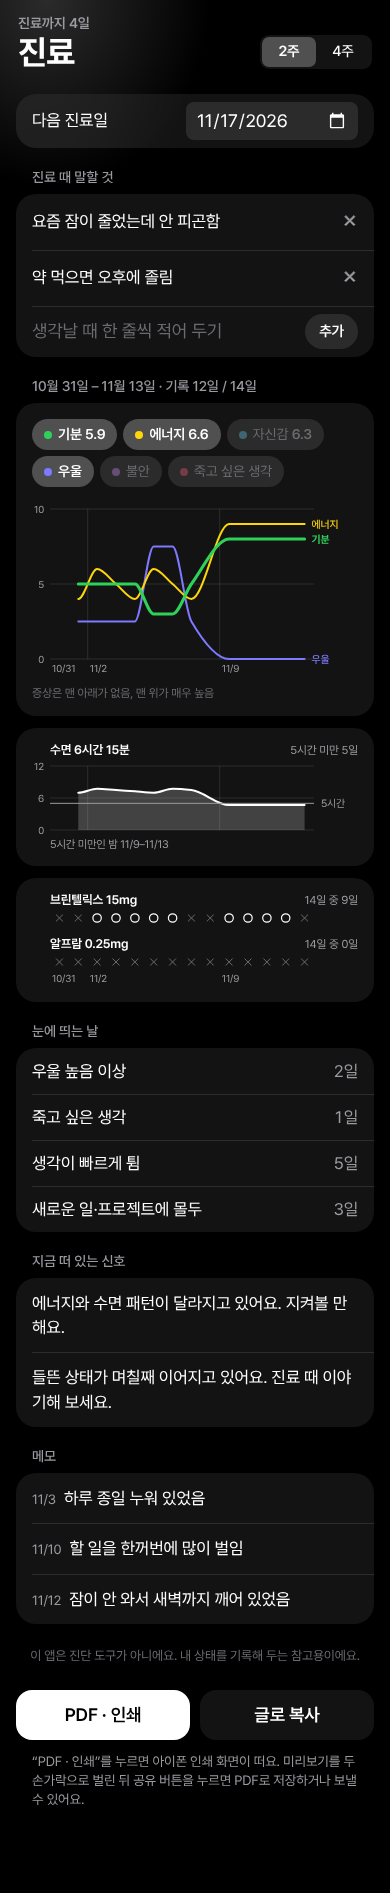
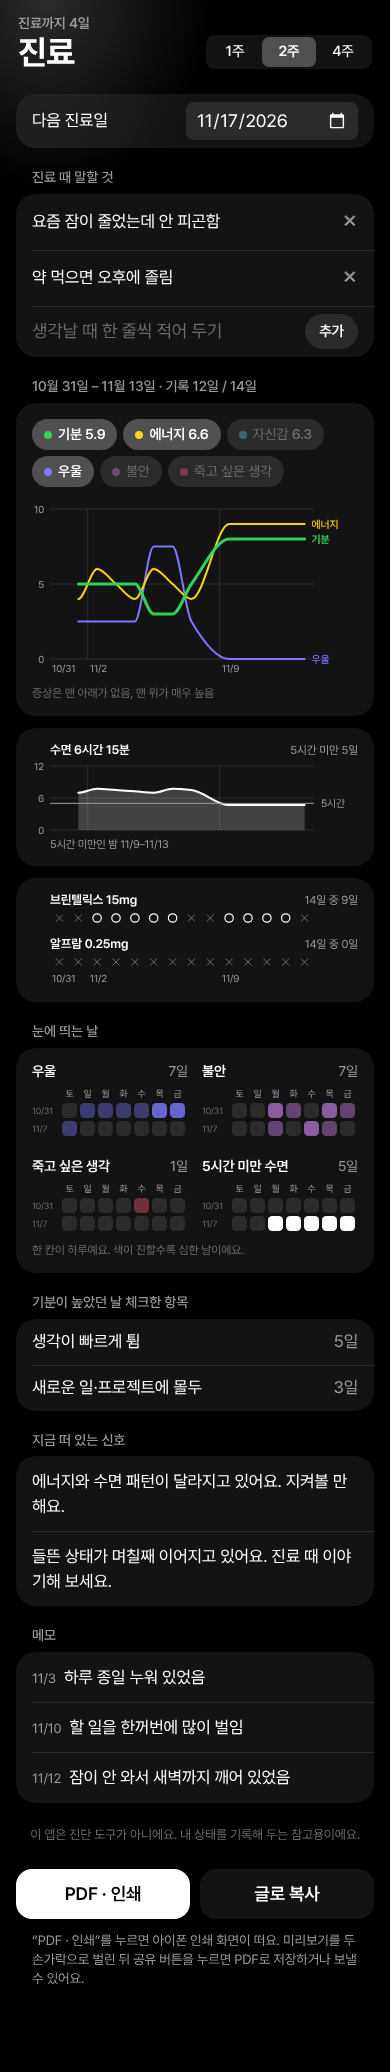
Tide: 1-week clinic summary and weekday squares for days that stand out
The clinic summary can cover 1, 2 or 4 weeks. Days that stand out are drawn as a row of weekday squares per item (depressed, anxious, thoughts of dying, under 5 hours of sleep): one square per day, coloured when it applies and darker when stronger; more weeks add rows. Drawn in SVG so it prints.

Claude-Session: https://claude.ai/code/session_01Du4KAy7crrN67i73oW7iBF

Changed region(s): [[0.0308, 0.0, 0.9231, 0.9662], [0.8308, 0.0, 0.8923, 0.0935], [0.8, 0.2493, 0.8615, 0.2805]]

diff --git a/mood/js/views/clinic.js b/mood/js/views/clinic.js
@@ -1,7 +1,7 @@
 // 진료 화면: 다음 진료일, 진료 때 말할 것, 진료용 요약 (최근 2주/4주를 한 장으로)
 import { SHORT_SLEEP, summary } from '../analysis.js';
 import { DISCLAIMER, LEVELS } from '../constants.js';
-import { durText, md, parse, today } from '../dates.js';
+import { WD, durText, md, parse, today } from '../dates.js';
 import { app, esc } from '../dom.js';
 import { F, T } from '../i18n.js';
 import { medKey, medsFor } from '../meds.js';
@@ -161,6 +161,27 @@ function summaryRows(s) {
   };
 }
 
+// 눈에 띄는 날: 항목마다 요일 칸을 놓고 그런 날을 색칠한다 (7일이 한 줄, 여러 주면 줄이 늘어난다).
+// 증상은 단계가 높을수록 진하게, "5시간 미만 수면"은 해당하는 밤만 칠한다. 인쇄에도 나오도록 SVG로 그린다.
+function dayGrids(s, width) {
+  const w = Math.floor((width - 14) / 2), rows = s.dates.length / 7, lab = rows > 1 ? 30 : 0, cell = (w - lab) / 7, sz = cell - 3, wd = WD();
+  const items = [
+    ...[['dep', T('우울')], ['anx', T('불안')], ['si', T('죽고 싶은 생각')]].filter(([k]) => itemOn(k)).map(([k, name]) => [name, `var(--l-${k})`, (e) => (e && e[k]) || 0]),
+    ...(itemOn('sleep') ? [[T('5시간 미만 수면'), 'var(--ink)', (e) => (e && e.sleepMin != null && e.sleepMin < SHORT_SLEEP ? 4 : 0)]] : []),
+  ];
+  return items.map(([name, color, level]) => {
+    const vals = s.days.map(level), count = vals.filter(Boolean).length;
+    let out = '';
+    for (let c = 0; c < 7; c++) out += `<text x="${(lab + cell * c + sz / 2).toFixed(1)}" y="9" text-anchor="middle" font-size="9.5" style="fill:var(--muted)">${wd[parse(s.dates[c]).getDay()]}</text>`;
+    vals.forEach((v, i) => {
+      const x = lab + cell * (i % 7), y = 15 + cell * Math.floor(i / 7);
+      if (lab && i % 7 === 0) out += `<text x="0" y="${(y + sz / 2 + 3.5).toFixed(1)}" font-size="9" style="fill:var(--faint)">${shortDate(s.dates[i])}</text>`;
+      out += `<rect x="${x.toFixed(1)}" y="${y.toFixed(1)}" width="${sz.toFixed(1)}" height="${sz.toFixed(1)}" rx="${(sz * 0.28).toFixed(1)}" ${v ? `style="fill:${color}" fill-opacity="${[0, 0.4, 0.6, 0.8, 1][v]}"` : 'class="c0"'}/>`;
+    });
+    return `<div class="sum-grid"><div class="sg-h"><span>${name}</span><span>${count ? F('{0}일', count) : T('없음')}</span></div><svg width="${w}" height="${(15 + cell * rows).toFixed(1)}" role="img">${out}</svg></div>`;
+  }).join('');
+}
+
 // 요약 본문: 그림 세 장과 눈에 띄는 날·신호·메모를 카드로 나눠 놓는다 (인쇄하면 이 부분이 한 장으로 나간다)
 function summaryHtml(weeks) {
   const s = summary(weeks);
@@ -168,10 +189,8 @@ function summaryHtml(weeks) {
   const fig = figures(s, width);
   // 큰 그래프의 선을 켜고 끄는 단추: 기분·에너지·자신감은 평균을 옆에 적는다
   const toggles = lineDefs().map(([key, name, max]) => `<button class="sum-tog" data-act="clinicLine" data-k="${key}" aria-pressed="${clinicView.lines.includes(key)}"><i style="background:${lineColor(key)}"></i>${name}${max === 10 && s[key] ? ` <b>${one(s[key].avg)}</b>` : ''}</button>`).join('');
-  const flags = [
-    ['dep', T('우울 높음 이상')], ['anx', T('불안 높음 이상')], ['si', T('죽고 싶은 생각')],
-  ].filter(([key]) => itemOn(key)).map(([key, name]) => [name, s.high[key].length]).concat(s.signs)
-    .filter(([, c]) => c).map(([name, c]) => li(esc(name), F('{0}일', c))).join('');
+  const grids = dayGrids(s, width);
+  const signs = s.signs.map(([name, c]) => li(esc(name), F('{0}일', c)));
   const says = (title, rows) => (rows.length ? `<div class="sec">${title}</div><section class="card list">${rows.join('')}</section>` : '');
   return `
     <div class="sec">${md(parse(s.dates[0]))} – ${md(parse(s.dates[s.dates.length - 1]))} · ${F('기록 {0}일 / {1}일', s.got.length, s.dates.length)}</div>
@@ -182,7 +201,9 @@ function summaryHtml(weeks) {
     </section>` : ''}
     ${itemOn('sleep') ? `<section class="card">${fig.sleep}</section>` : ''}
     ${fig.marks ? `<section class="card">${fig.marks}</section>` : ''}
-    ${flags ? `<div class="sec">${T('눈에 띄는 날')}</div><section class="card list">${flags}</section>` : ''}
+    ${grids ? `<div class="sec">${T('눈에 띄는 날')}</div><section class="card" id="sum-days"><div class="sum-grids">${grids}</div>
+      <p class="sum-key">${T('한 칸이 하루예요. 색이 진할수록 심한 날이에요.')}</p></section>` : ''}
+    ${says(T('기분이 높았던 날 체크한 항목'), signs)}
     ${says(T('지금 떠 있는 신호'), s.signals.map((x) => `<div class="li say">${esc(x)}</div>`))}
     ${says(T('메모'), s.notes.map(([d, note]) => `<div class="li say note"><small>${shortDate(d)}</small> ${esc(note)}</div>`))}
     <p class="foot">${DISCLAIMER}</p>`;
@@ -207,7 +228,8 @@ export function viewClinic() {
   const c = clinicData(), weeks = clinicView.weeks;
   app.innerHTML = `
     <header class="top"><div><div class="over">${nextText() || T('의사에게 보여 줄 것들')}</div><h1>${T('진료')}</h1></div>
-      <div class="segc"><button data-act="clinicWeeks" data-w="2" aria-pressed="${weeks === 2}">${T('2주')}</button>
+      <div class="segc"><button data-act="clinicWeeks" data-w="1" aria-pressed="${weeks === 1}">${T('1주')}</button>
+        <button data-act="clinicWeeks" data-w="2" aria-pressed="${weeks === 2}">${T('2주')}</button>
         <button data-act="clinicWeeks" data-w="4" aria-pressed="${weeks === 4}">${T('4주')}</button></div></header>
 
     <section class="card list">

diff --git a/mood/tests/smoke.js b/mood/tests/smoke.js
@@ -198,8 +198,8 @@ function seed() {
 
   // 5-2. 진료 탭: 다음 진료일, 말할 것, 요약
   await page.click('[data-tab=clinic]');
-  check('진료용 요약에 그림과 눈에 띄는 날, 약이 나옴', (await page.$$('#sum-meds circle')).length > 3 && (await page.$$('#sum-fig path')).length >= 3 && (await page.$$('#summary rect')).length === 0
-    && (await text('#summary')).includes('우울 높음 이상') && (await text('#sum-meds')).includes('브린텔릭스') && (await text('#sum-sleep')).includes('5시간 미만'));
+  check('진료용 요약에 그림과 눈에 띄는 날, 약이 나옴', (await page.$$('#sum-meds circle')).length > 3 && (await page.$$('#sum-fig path')).length >= 3 && (await page.$$('#sum-days rect')).length % 14 === 0 && (await page.$$('#sum-days rect[style]')).length > 0
+    && (await text('#sum-days')).includes('우울') && (await text('#sum-meds')).includes('브린텔릭스') && (await text('#sum-sleep')).includes('5시간 미만'));
   const anxOff = !(await text('#sum-fig')).includes('불안');
   await page.click('.sum-tog[data-k=anx]');
   check('큰 그래프에서 선을 켜고 끔', anxOff && (await text('#sum-fig')).includes('불안') && (await page.getAttribute('.sum-tog[data-k=anx]', 'aria-pressed')) === 'true');
@@ -211,6 +211,9 @@ function seed() {
   check('다음 진료일까지 남은 날', (await text('.top .over')) === '진료까지 3일' && (await store()).clinic.next === dayAgo(-3));
   await page.click('[data-act=clinicWeeks][data-w="4"]');
   check('4주 요약', (await text('#summary')).includes('/ 28일'));
+  await page.click('[data-act=clinicWeeks][data-w="1"]');
+  check('1주 요약: 요일 칸이 항목마다 7개', (await text('#summary')).includes('/ 7일') && (await page.$$('#sum-days .sum-grid:first-child rect')).length === 7);
+  await page.click('[data-act=clinicWeeks][data-w="4"]');
   await page.click('[data-act=copySummary]');
   check('요약을 글로 복사', await page.waitForFunction(() => document.querySelector('#toast').textContent === '복사했어요', null, { timeout: 3000 }).then(() => true, () => false));
   await page.click('[data-act=clinicNoteDel]');

diff --git a/mood/app.css b/mood/app.css
@@ -385,6 +385,13 @@ input[type=date] { border: 0; outline: none; background: var(--card2); color: va
 #summary svg { display: block; overflow: visible; font-family: inherit; }
 .sum-key { color: var(--faint); font-size: calc(10.5px * var(--fs, 1.12)); margin: 8px 0 0; line-height: 1.45; }
 
+/* 진료용 요약: 눈에 띄는 날 (항목마다 요일 칸) */
+.sum-grids { display: grid; grid-template-columns: 1fr 1fr; gap: 18px 14px; }
+.sg-h { display: flex; justify-content: space-between; gap: 6px; font-size: calc(12.5px * var(--fs, 1.12)); font-weight: 600; margin-bottom: 7px; white-space: nowrap; }
+.sg-h span:last-child { color: var(--muted); font-weight: 400; }
+.c0 { fill: var(--card2); }
+@media print { .c0 { fill: none; stroke: #ccc; } }
+
 /* 인사이트: 두 숫자를 나란히 놓은 비교 줄 */
 .li.cmp { display: block; padding: 13px 16px 14px; }
 .cmp-t { color: var(--muted); font-size: calc(12.5px * var(--fs, 1.12)); }

diff --git a/mood/sw.js b/mood/sw.js
@@ -1,7 +1,7 @@
 // 오프라인에서도 열리도록 앱 파일을 저장해 둔다.
 // 인터넷이 될 때는 항상 최신 파일을 먼저 받아오고, 안 될 때만 저장본을 쓴다.
 // 앱 파일을 바꿔서 올릴 때마다 CACHE 숫자를 하나 올린다. js/ 에 파일을 더하면 JS 목록에도 더한다.
-const CACHE = 'tide-v52';
+const CACHE = 'tide-v53';
 const JS = ['main', 'config', 'i18n', 'constants', 'store', 'dates', 'theme', 'icons', 'dom', 'state', 'meds', 'analysis', 'files', 'render', 'swipe', 'lock',
   'views/today', 'views/trend', 'views/insight', 'views/record', 'views/settings', 'views/clinic', 'views/notes'];
 const FILES = ['./', 'index.html', 'app.css', 'manifest.webmanifest',

diff --git a/mood/js/i18n.js b/mood/js/i18n.js
@@ -42,6 +42,8 @@ const DICT = {
   '진료까지 {0}일': '{0} days to your appointment',
   '오늘 진료': 'Appointment today',
   '의사에게 보여 줄 것들': 'Things to show your doctor',
+  '1주': '1 wk',
+  '한 칸이 하루예요. 색이 진할수록 심한 날이에요.': 'Each square is a day. Darker means a harder day.',
   '2주': '2 wk',
   '4주': '4 wk',
   '다음 진료일': 'Next appointment',

diff --git a/mood/js/config.js b/mood/js/config.js
@@ -2,4 +2,4 @@
 export const KEY = 'tide.v1', OLD_KEY = 'harugyeol.v1';
 
 // 설정 화면 맨 아래에 보이는 번호. 올릴 때마다 sw.js의 CACHE 숫자와 같이 하나 올린다.
-export const VERSION = 52;
+export const VERSION = 53;
